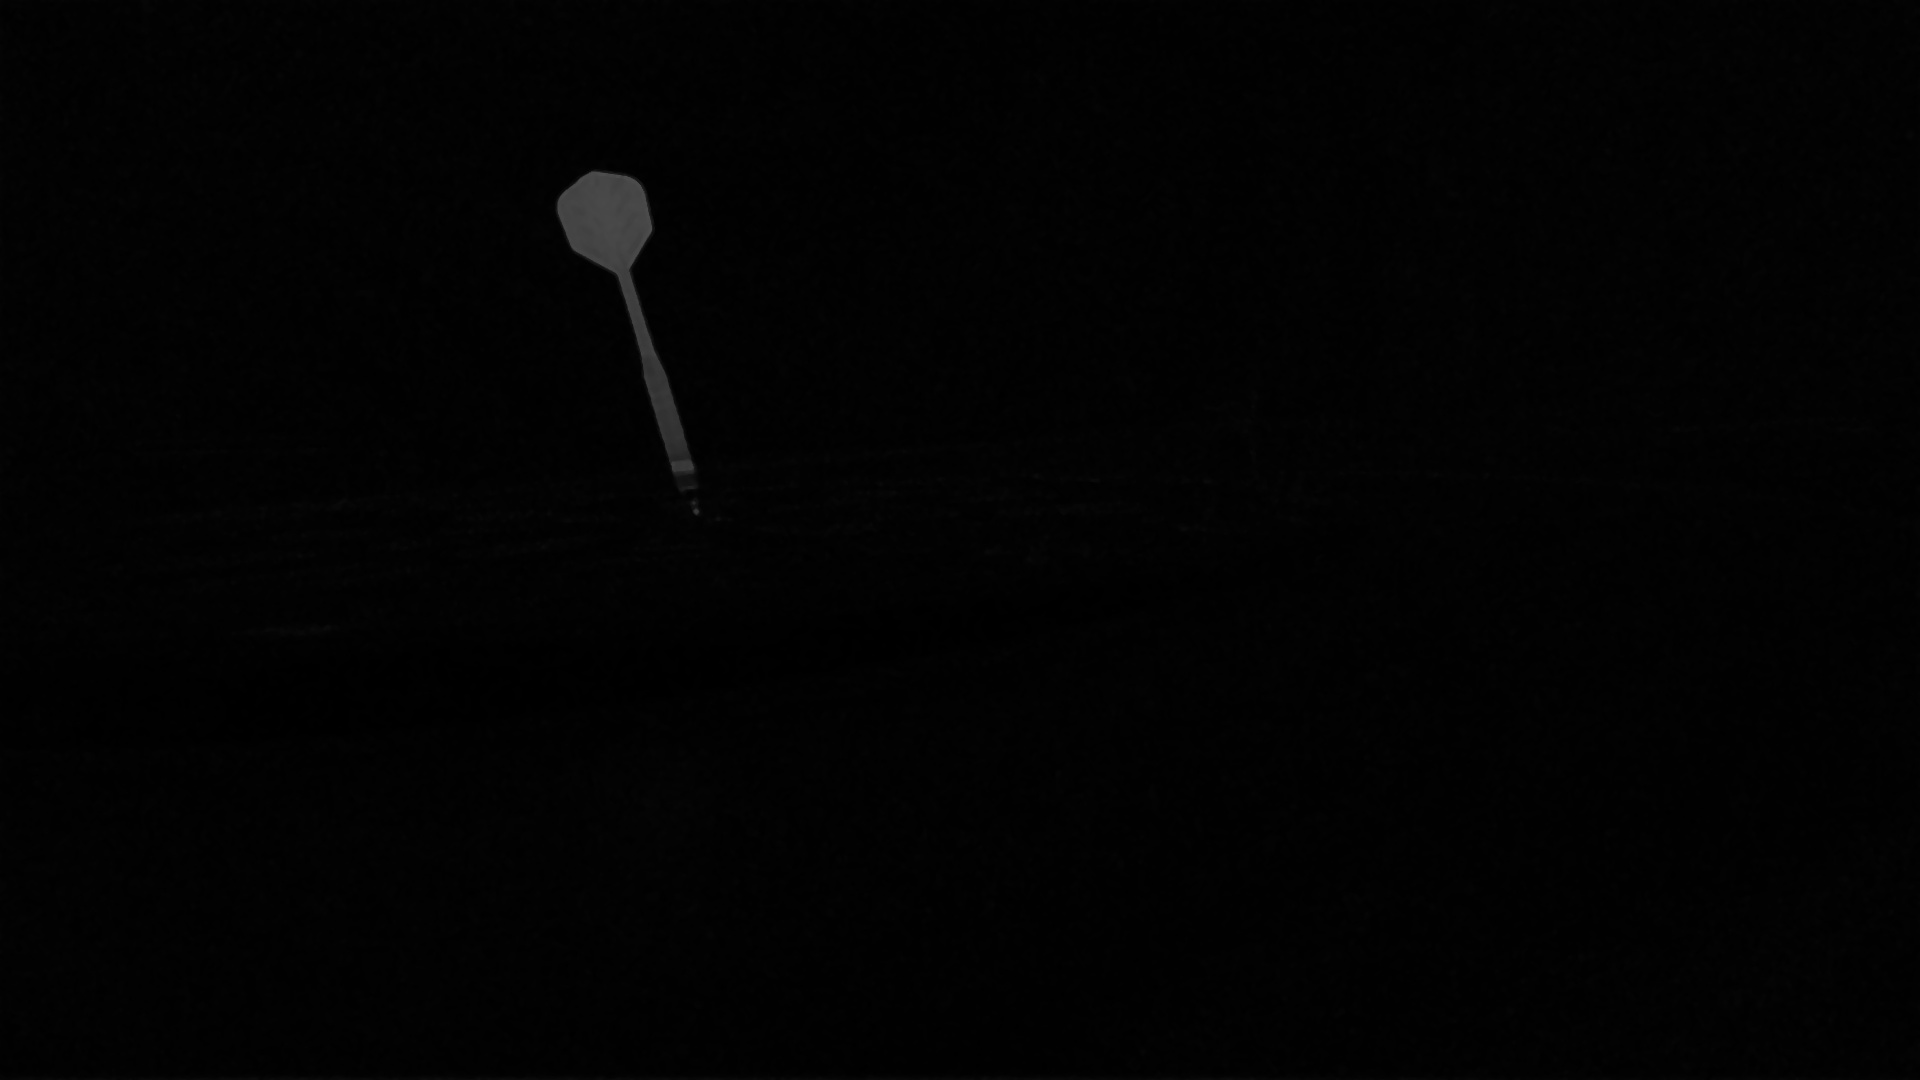
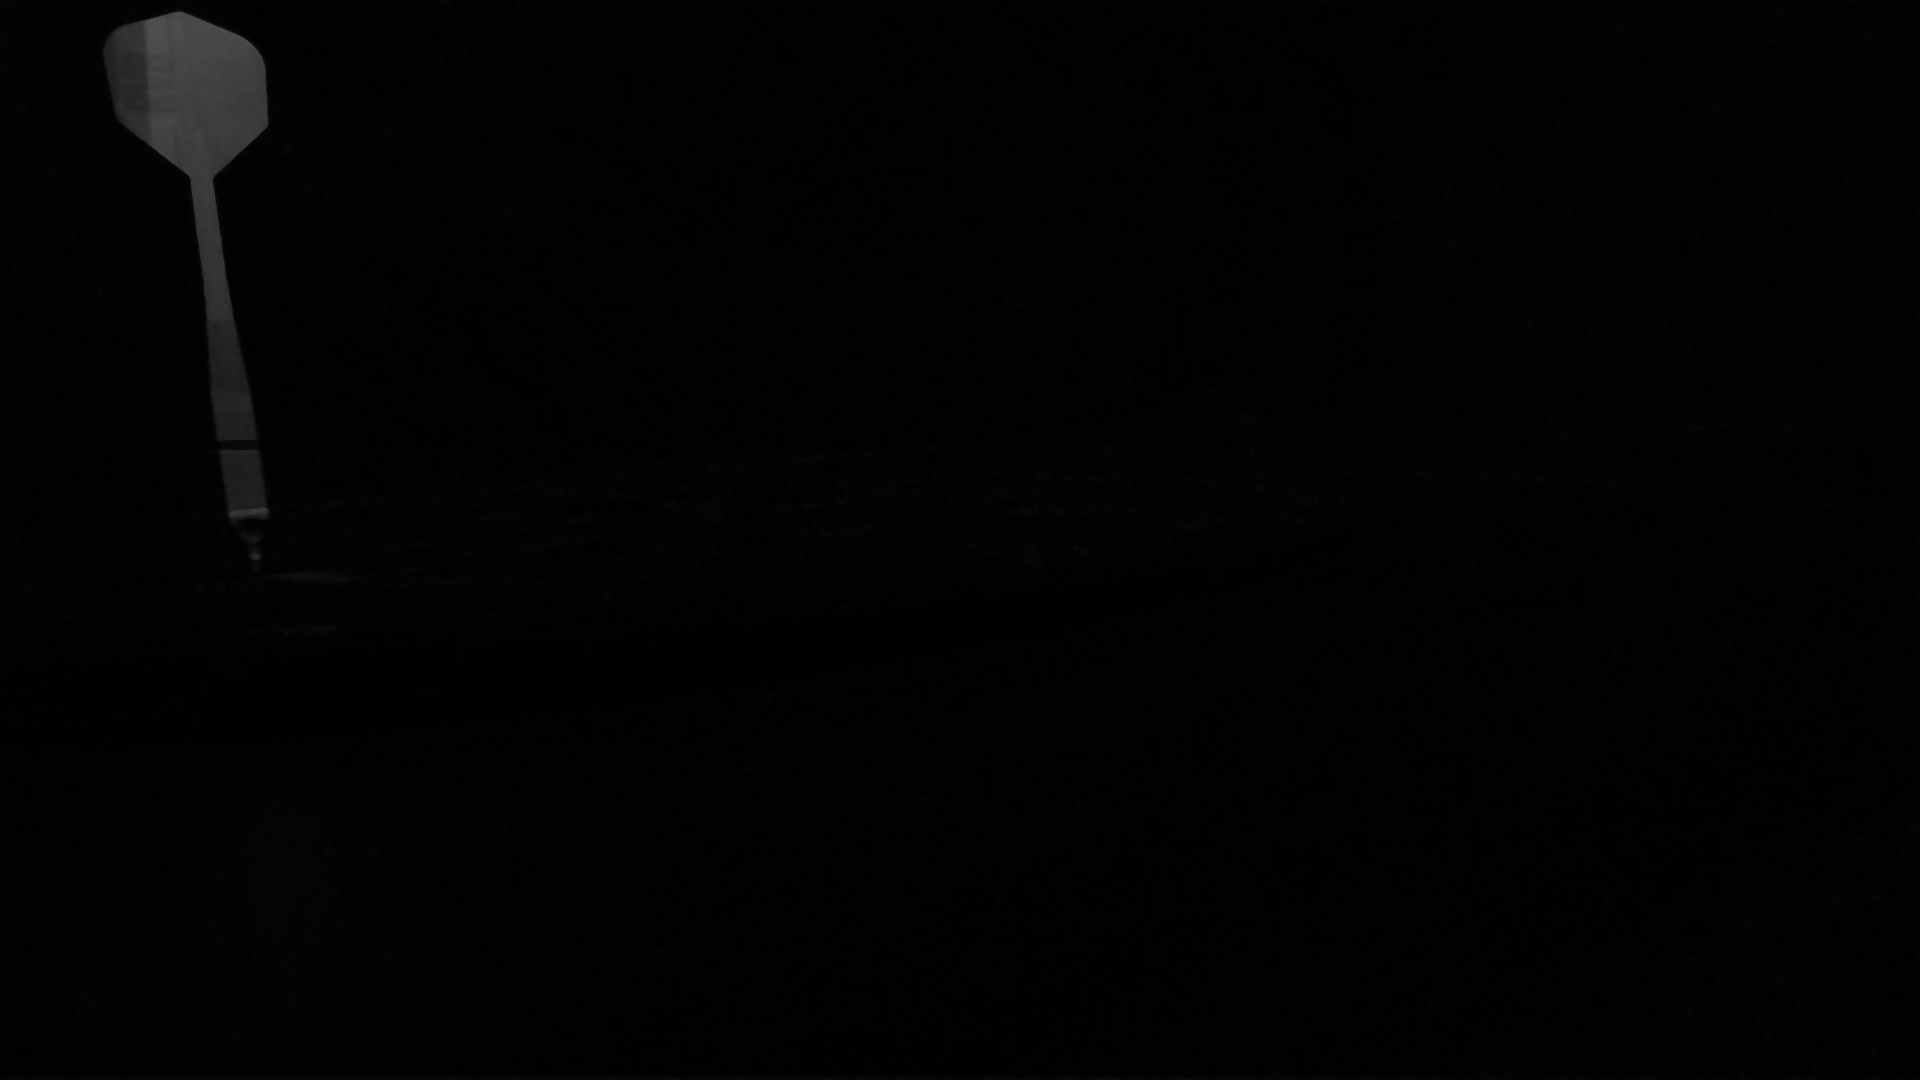
Dart tip successfully found in calibration

Changed region(s): [[0.0312, 0.0, 0.1562, 0.4889], [0.2812, 0.1528, 0.375, 0.4583]]

diff --git a/main.py b/main.py
@@ -1,60 +1,50 @@
+from tkinter import *
 from vidgear.gears import VideoGear
 import cv2 as cv
-import os
 from difference import *
 
-stream1 = VideoGear(source=0, logging=True).start() 
-stream2 = VideoGear(source=1, logging=True).start() 
+stream0 = VideoGear(source=0, logging=True).start() 
+stream1 = VideoGear(source=1, logging=True).start() 
+idx = 0
 
-hitCount = 0
-frameCount = 0
-
-if os.path.isfile('Images/previousA.jpg'):
-    os.remove('Images/previousA.jpg')
-
-if os.path.isfile('Images/previousB.jpg'):
-    os.remove('Images/previousB.jpg')
-
-while True:
+def takePhoto():
+    global idx
+    if idx < 3:
+        calibrationImage = stream0.read()
+    else:
+        calibrationImage = stream1.read()
     
-    frameA = stream1.read()
-    frameB = stream2.read()
+    cv.imwrite('Images/Calibration/calibration_' + str(idx) + '.jpg', calibrationImage)
+    idx += 1
 
-    if frameA is None or frameB is None:
-        break
+def calibrate():
 
-    if not os.path.isfile('Images/previousA.jpg'):
-        cv.imwrite('Images/previousA.jpg', frameA)
-        cv.imwrite('Images/previousB.jpg', frameB)
-    
-    cv.imshow("Output Frame1", frameA)
-    cv.imshow("Output Frame2", frameB)
+    cameraAEmpty = cv.imread('Images/Calibration/calibration_0.jpg')
+    cameraALeft = cv.imread('Images/Calibration/calibration_1.jpg')
+    cameraARight = cv.imread('Images/Calibration/calibration_2.jpg')
 
-    cv.imwrite('Images/currentA.jpg', frameA)
-    cv.imwrite('Images/currentB.jpg', frameB)
+    cameraBEmpty = cv.imread('Images/Calibration/calibration_3.jpg')
+    cameraBTop = cv.imread('Images/Calibration/calibration_4.jpg')
+    cameraBBottom = cv.imread('Images/Calibration/calibration_5.jpg')
 
-    previousA = cv.imread('Images/previousA.jpg')
-    previousB = cv.imread('Images/previousB.jpg')
+    cntsALeft, boardContoursALeft, contourFoundALeft = retrieveDartContour(cameraAEmpty, cameraALeft, 10, "A")
+    cntsARight, boardContoursARight, contourFoundARight = retrieveDartContour(cameraAEmpty, cameraARight, 10, "A")
 
-    cntsA, boardContoursA, contourFoundA = findContour(previousA, frameA, 200, "A")
-    cntsB, boardContoursB, contourFoundB = findContour(previousB, frameB, 200, "B")
+    cntsBTop, boardContoursBTop, contourFoundBTop = retrieveDartContour(cameraBEmpty, cameraBTop, 20, "B")
+    cntsBBottom, boardContoursBBottom, contourFoundBBottom = retrieveDartContour(cameraBEmpty, cameraBBottom, 20, "B")
 
-    if contourFoundA or contourFoundB:
-        frameCount += 1
+    cv.imshow('A left', boardContoursALeft)
+    cv.imshow('A right', boardContoursARight)
+    cv.imshow('B top', boardContoursBTop)
+    cv.imshow('B bottom', boardContoursBBottom)
 
-        if frameCount == 3:
-            cntsA, boardContoursA = retrieveDartContour(previousA, frameA, 10, "A")
-            cntsB, boardContoursB = retrieveDartContour(previousB, frameB, 30, "B")
-            hitCount += 1
-    
-    # cv.imwrite('Images/previousA.jpg', frameA)
-    # cv.imwrite('Images/previousB.jpg', frameB)
+    cv.waitKey(0)
 
-    key = cv.waitKey(1) & 0xFF
-    if key == ord("q"):
-        break
 
-cv.destroyAllWindows()
+master = Tk()
 
-stream1.stop()
-stream2.stop()
+Button(master, text='Take calibration photo', command=takePhoto).pack()
+Button(master, text='Finish calibration', command=calibrate).pack()
+
+
+master.mainloop()

diff --git a/gameplay.py b/gameplay.py
@@ -1,0 +1,60 @@
+from vidgear.gears import VideoGear
+import cv2 as cv
+import os
+from difference import *
+
+stream1 = VideoGear(source=0, logging=True).start() 
+stream2 = VideoGear(source=1, logging=True).start() 
+
+hitCount = 0
+frameCount = 0
+
+if os.path.isfile('Images/previousA.jpg'):
+    os.remove('Images/previousA.jpg')
+
+if os.path.isfile('Images/previousB.jpg'):
+    os.remove('Images/previousB.jpg')
+
+while True:
+    
+    frameA = stream1.read()
+    frameB = stream2.read()
+
+    if frameA is None or frameB is None:
+        break
+
+    if not os.path.isfile('Images/previousA.jpg'):
+        cv.imwrite('Images/previousA.jpg', frameA)
+        cv.imwrite('Images/previousB.jpg', frameB)
+    
+    cv.imshow("Output Frame1", frameA)
+    cv.imshow("Output Frame2", frameB)
+
+    cv.imwrite('Images/currentA.jpg', frameA)
+    cv.imwrite('Images/currentB.jpg', frameB)
+
+    previousA = cv.imread('Images/previousA.jpg')
+    previousB = cv.imread('Images/previousB.jpg')
+
+    cntsA, boardContoursA, contourFoundA = findContour(previousA, frameA, 200, "A")
+    cntsB, boardContoursB, contourFoundB = findContour(previousB, frameB, 200, "B")
+
+    if contourFoundA or contourFoundB:
+        frameCount += 1
+
+        if frameCount == 3:
+            cntsA, boardContoursA = retrieveDartContour(previousA, frameA, 10, "A")
+            cntsB, boardContoursB = retrieveDartContour(previousB, frameB, 30, "B")
+            hitCount += 1
+    
+    # cv.imwrite('Images/previousA.jpg', frameA)
+    # cv.imwrite('Images/previousB.jpg', frameB)
+
+    key = cv.waitKey(1) & 0xFF
+    if key == ord("q"):
+        break
+
+cv.destroyAllWindows()
+
+stream1.stop()
+stream2.stop()

diff --git a/test.py b/test.py
@@ -1,7 +1,34 @@
 import cv2
 from difference import *
 
-dart = cv.imread('Images/currentB.jpg')
 board = cv.imread('Images/previousB.jpg')
+dart = cv.imread('Images/currentB.jpg')
 
-retrieveDartContour(board, dart, 20, "B")
+cnts, boardContours, contourFound = retrieveDartContour(board, dart, 20, "B")
+
+maxYCoordinateCenter = max(x['center'][1] for x in contourFound)
+contour = []
+for i in range(len(contourFound)):
+    if contourFound[i]['center'][1] == maxYCoordinateCenter:
+        contour = contourFound[i]['cnt']
+
+maxYCoordinate = max(x[0][1] for x in contour)
+possibleCoordinates = list(filter(lambda x: x[0][1] == maxYCoordinate, contour))
+tipCoordinate = possibleCoordinates[len(possibleCoordinates) // 2]
+y = tipCoordinate[0][0]
+
+x_coordinates = []
+y_coordinates = []
+for i in range(len(contourFound)):
+    x_coordinates.append(list(map(lambda x: x[0][0], contourFound[i]['cnt'])))
+    y_coordinates.append(list(map(lambda y: y[0][1], contourFound[i]['cnt'])))
+
+y_coordinate = max(y_coordinates)
+y_coordinate_idx = y_coordinates.index(y_coordinate, 0, len(y_coordinates))
+x_coordinate = x_coordinates[y_coordinate_idx]
+    
+cv.circle(boardContours, (tipCoordinate[0][0], tipCoordinate[0][1]), 3, (0, 255, 0), -1)
+
+cv.imshow('Contours', boardContours)
+
+cv.waitKey(0)

diff --git a/difference.py b/difference.py
@@ -56,9 +56,9 @@ def retrieveDartContour(board, dart, area, camera):
     cv.imwrite('Images/' + camera + '/nyil_maszk.jpg', canvas)
 
     canvas = canvas.astype(np.uint8)
-    board_contours, contourFound = cvz.findContours(dart, canvas, 0)
+    boardContours, contourFound = cvz.findContours(dart, canvas, 0)
 
-    return cnts, board_contours
+    return cnts, boardContours, contourFound
 
 def findContour(board, dart, area, camera):
 
